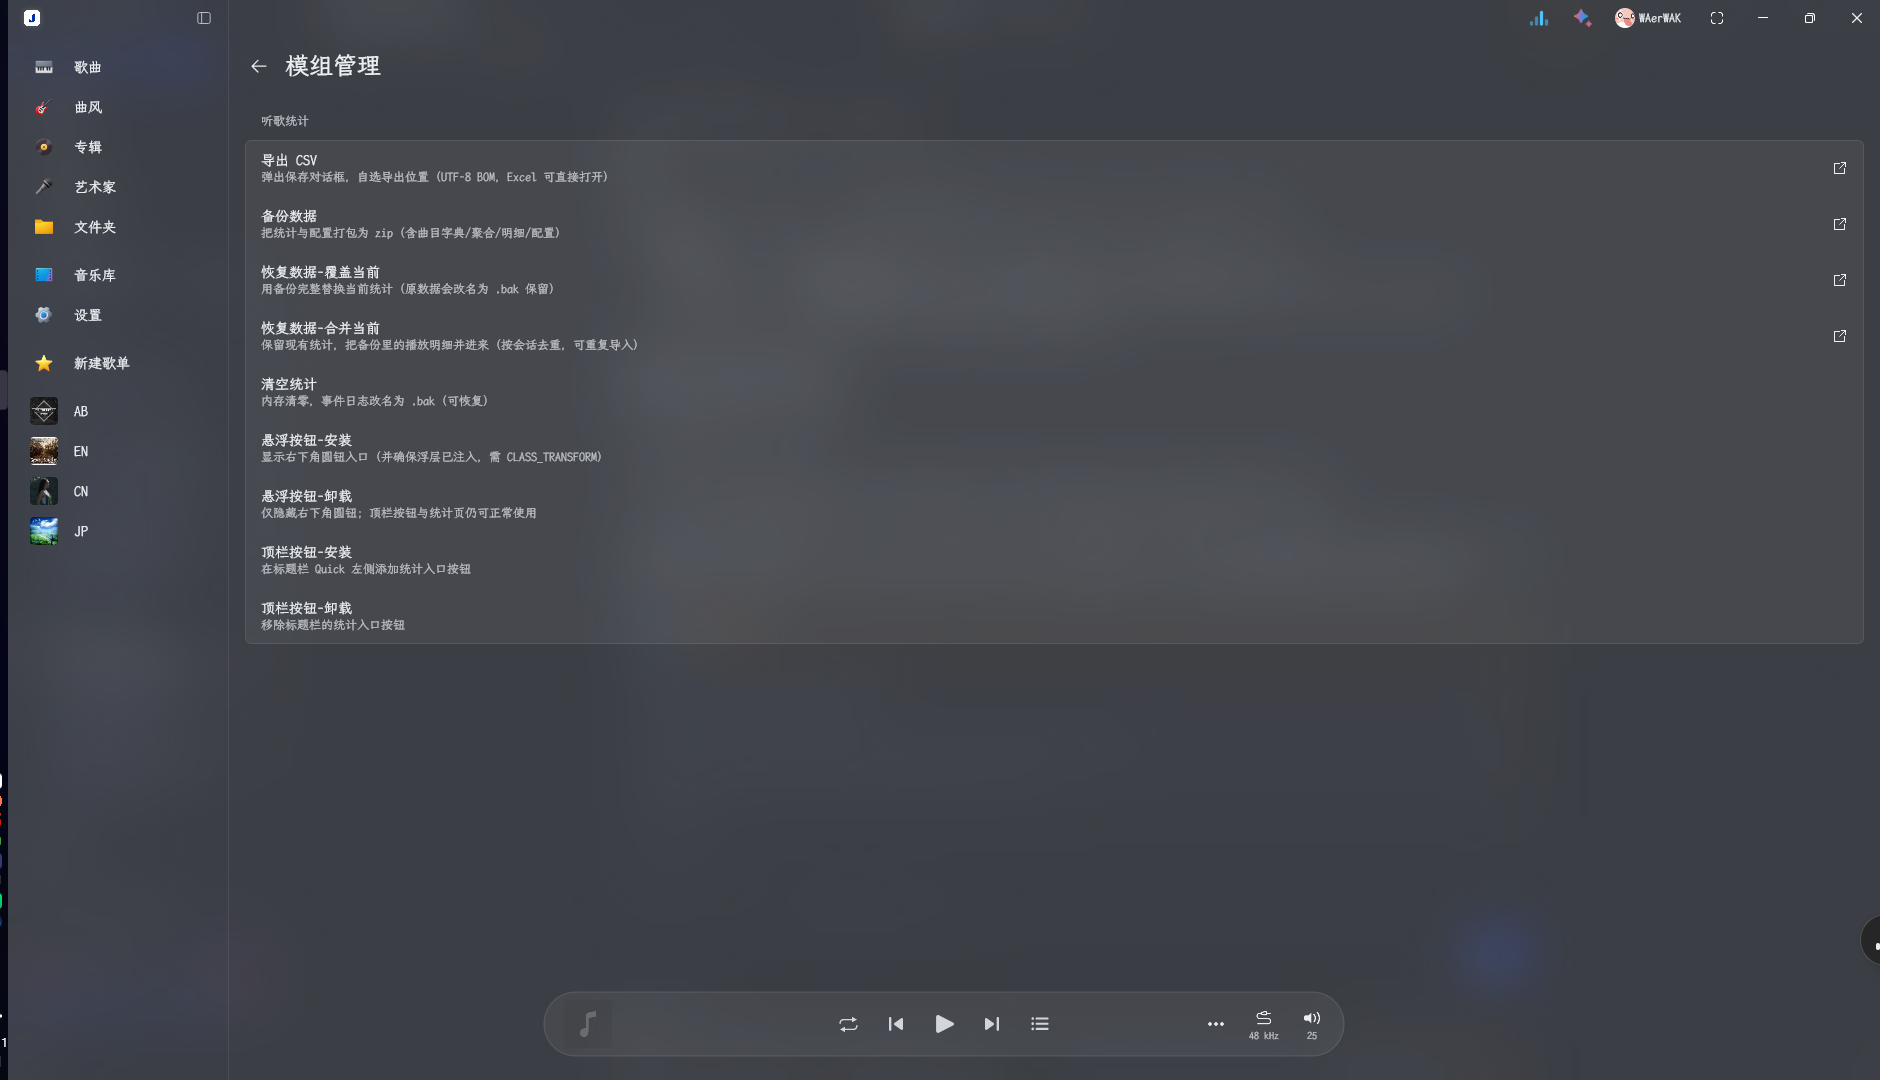
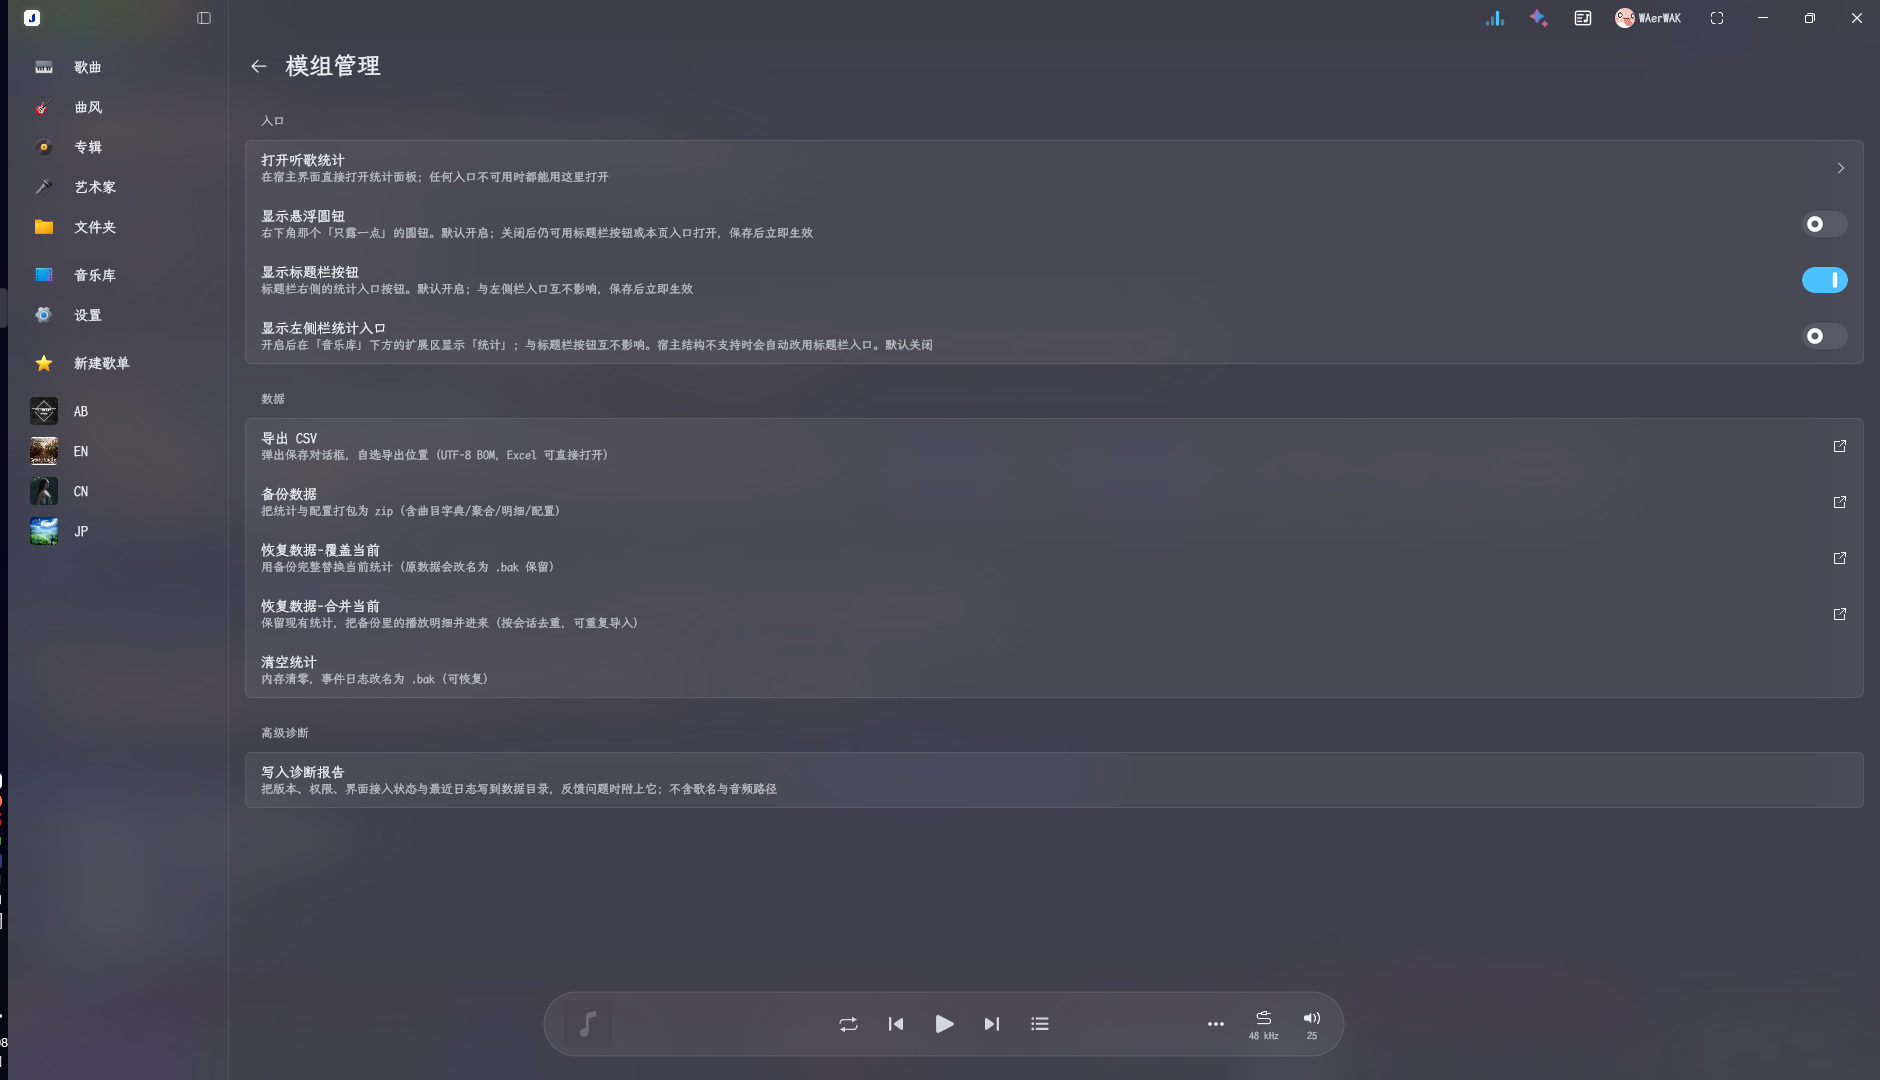
release(1.5.2): 左侧栏入口、概览交互、榜单日期范围、设置分组与诊断报告；更新截图与致谢

diff --git a/CHANGELOG.md b/CHANGELOG.md
@@ -2,14 +2,18 @@
 
 本项目遵循 [语义化版本](https://semver.org/lang/zh-CN/)。
 
-## [1.5.2] - 2026-11-11
+## [1.5.2] - 2026-11-12
 
 ### 新增
 
-- **左侧栏入口**：可在设置里把入口放到左侧栏「音乐库」下方（显示为「统计」），与标题栏按钮互斥；选中状态与原生栏目一致，打开统计页时不会两个条目同时高亮
+- **左侧栏入口**：可在设置里把入口放到左侧栏「音乐库」下方（显示为「统计」）；使用播放器自己的侧栏行样式，悬停背景、按下动画与选中态都与原生条目一致；与标题栏按钮互不影响
+- **概览页列表可操作**：最近播放 / 最常听 Top 10 支持单击看歌曲详情、双击直接播放，并加了与排行页一致的悬停背景
+- **排行页悬浮背景**：歌曲列表悬停时也有背景色（之前只有专辑/艺术家列表有）
+- **分组详情可点进歌曲**：专辑/艺术家详情里点一首歌就能打开该曲目的详情，关闭时先关最上层
+- **榜单日期范围**：月榜/周榜在视图切换行右端显示具体日期（YY/MM/DD - YY/MM/DD），点一下可在「最近一月/一周」与「本月/本周」之间切换，默认最近
 - **设置分组**：插件配置页按「入口 / 数据 / 高级诊断」分组，每项都写明了默认值与生效时机
-- **入口开关**：悬浮圆钮与标题栏按钮改为开关（默认都开），保存后立即生效；关闭一个仍可用另一个或本页入口打开，不会再出现“入口消失了没处打开”
-- **面板内直达配置**：信息页的「提示」里新增「打开插件配置」与「打开键盘快捷键」，直接跳到宿主对应页面
+- **入口开关**：悬浮圆钮、标题栏按钮、左侧栏入口三个开关互相独立，保存后立即生效
+- **面板内直达**：信息页「提示」里可直接打开插件配置页与宿主的键盘快捷键页
 - **一键诊断报告**：信息页与配置页都能一键写出诊断报告（版本、权限、界面接入状态、计时异常、最近日志）；不含歌名、歌手与音频路径
 
 ### 修复
@@ -17,20 +21,23 @@
 - **停用/启用插件后偶发异常**：停用时如果界面注入还在后台扫描，扫描完成不再抢先注册（之前会留下没人释放的入口、甚至出现双入口）；首次启动后的界面接入更快（注入点缓存之前其实一直没命中，现已修好）
 - **注入点缓存**：命中后再校验一遍宿主接口，接口变了会自动全量重扫一次；只有完整接入才写缓存，不会把“半成品”存下来
 - **配置互相覆盖**：面板改计数门槛/保留天数与配置页同时修改时，不再用旧值覆盖对方（改成先读最新再写）
-- **宿主升级后部分入口失效**：标题栏入口与背景材质现在各自独立降级，顶栏入口结构变了也不会导致整个统计页打不开
+- **宿主升级后部分入口失效**：标题栏入口、左侧栏入口与背景材质各自独立降级，某一处结构变了不会导致整个统计页打不开
+- **打开插件配置页/键盘快捷键页失败**：修正了跳转参数类型，并从播放器的导航上下文直接取导航对象，不再要求“先手动切一次页面”
 
 ### 改进
 
 - 打开面板前先等数据预热（最多 1.2 秒），宿主刚启动就点浮钮时首帧不再空白
+- 双击播放判定窗口从 0.4 秒缩短到 0.2 秒（单击详情也跟着变快）
 - 部分入口不可用时会提示一次（不影响听歌记录），具体原因写入 `hook-diag.txt`
-- 诊断信息复制保留，新增完整报告文件；`hook-diag.txt` 增加会话代号与耗时，便于定位
-- 关闭/启用插件时的界面清理改为“先释放再用”，释放不干净会明确提示重启 SPW，不再静默重复注册
+- 诊断信息复制保留，新增完整报告文件；`hook-diag.txt` 增加会话代号、耗时与侧栏结构快照
+- 关闭/启用插件时的界面清理改为“先释放再用”，释放不干净会明确提示重启 SPW
 
 ### 兼容性
 
+- 基于 Salt Player for Windows **1.19.3**（1.19.0 / 1.19.1 仍可用）；宿主升级后若界面结构变化，入口会自动降级并在诊断里说明
 - 数据格式、备份格式、统计口径不变，旧数据与旧备份可直接使用
-- 需要 Salt Player for Windows 1.19.3；1.19.0 / 1.19.1 仍可用
 - 旧版「悬浮按钮-卸载」的状态会自动迁移到新开关
+- 感谢 [Jethuit/SPW-Listen-Stats](https://github.com/Jethuit/SPW-Listen-Stats)：注入点结构发现、句柄回滚与缓存思路、左侧栏接入与界面设计参考，很多细节是从这个同类插件上学来的
 
 ## [1.5.1] - 2026-11-09
 

diff --git a/README.md b/README.md
@@ -229,6 +229,16 @@ src/main/kotlin/com/spwmods/waerwak/listenstats/
     └── UiStateStore.kt         面板 UI 状态持久化
 ```
 
+## 致谢
+
+本项目的部分实现思路来自同类插件 [Jethuit/SPW-Listen-Stats](https://github.com/Jethuit/SPW-Listen-Stats)：
+
+- 宿主界面注入点的结构发现（不写死混淆名）、句柄回滚与注入点缓存的做法
+- 左侧栏原生入口的接入方式（原生行布局 + 样式作用域，含选中态处理）
+- 配置页分组与“打开插件配置”等交互参考
+
+代码为独立实现，未直接拷贝其源码；上述参考均已在 `docs/hook-targets.md` 与注释中注明。
+
 ---
 
 ## License
